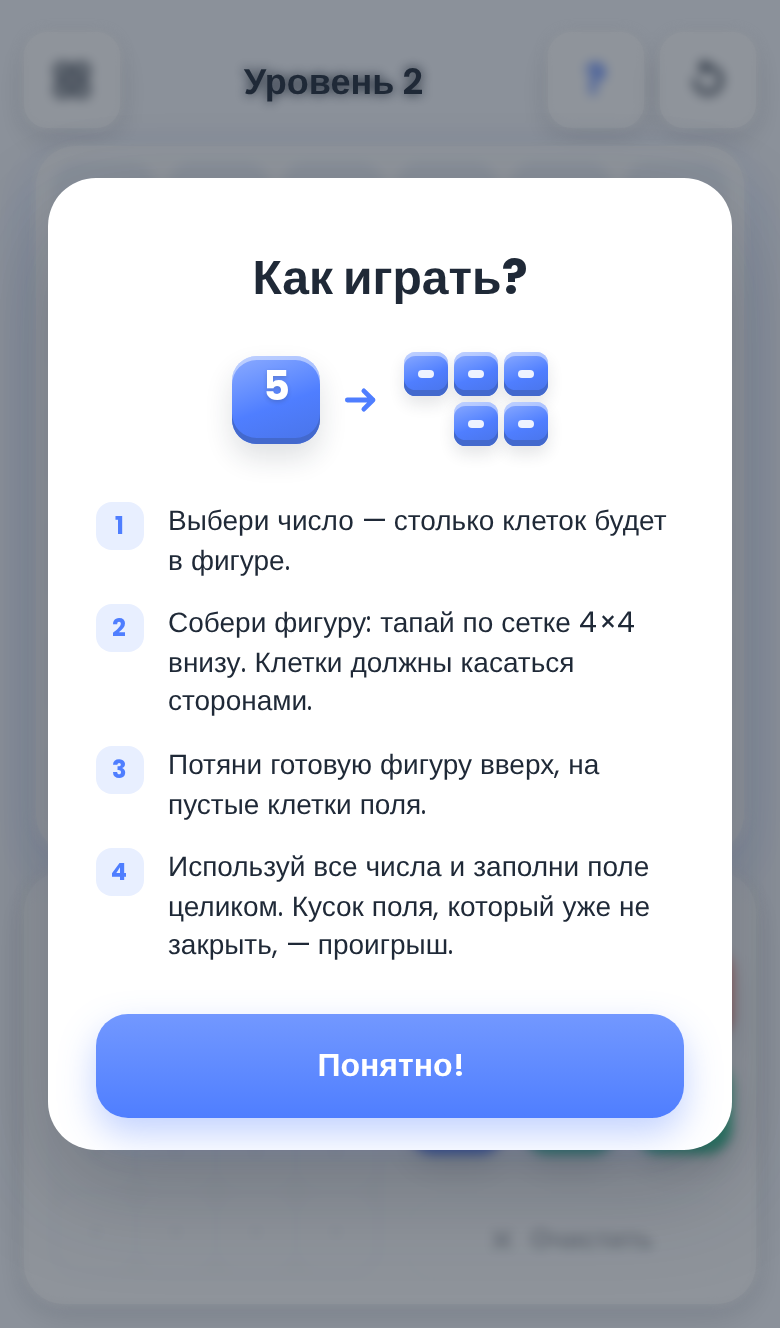
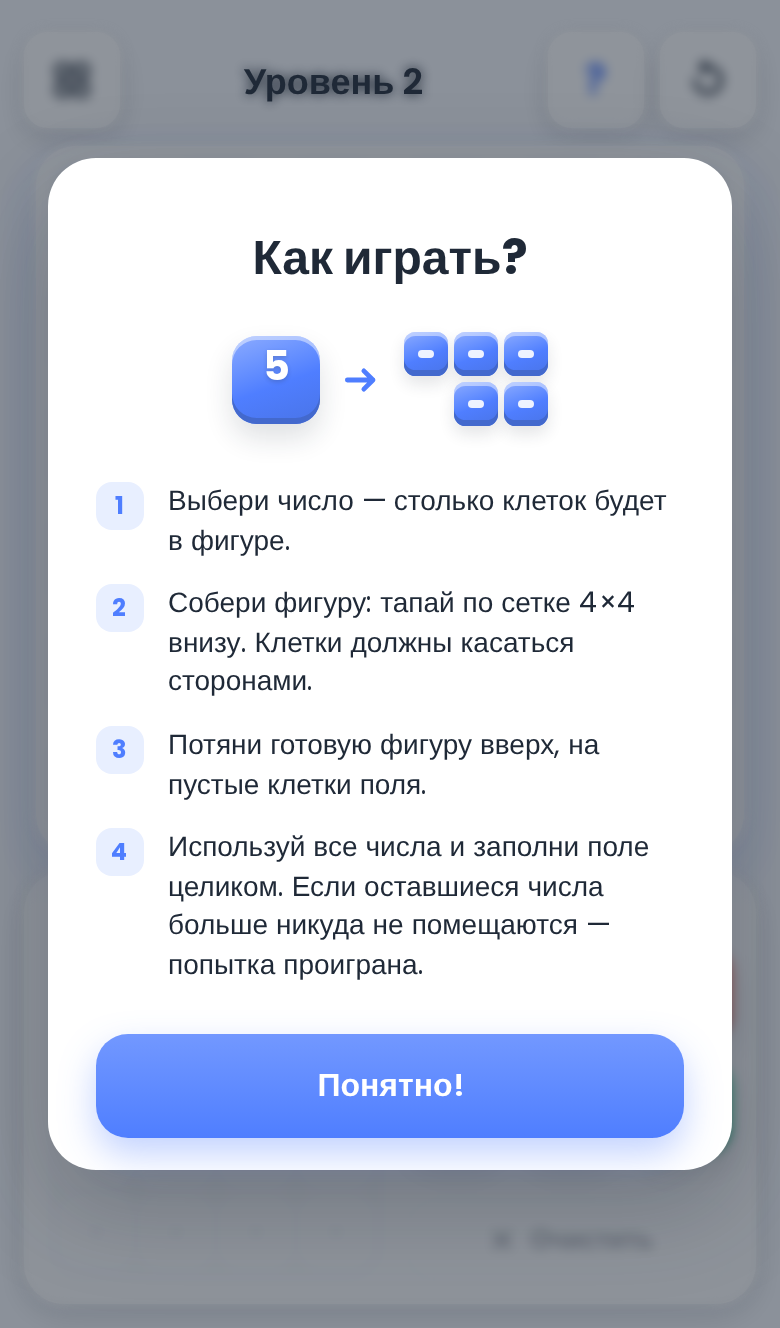
Build & Pack: no lookahead loss, clean home screen
The game no longer declares a loss when the level becomes unsolvable;
it ends only when no remaining number fits anywhere (no_moves). Home
shows just the centered banner with Play under it.

Claude-Session: https://claude.ai/code/session_01Cmo7VGTDwpgdT4Hfckucjs

diff --git a/apps/roll-pack/e2e/play.spec.ts b/apps/roll-pack/e2e/play.spec.ts
@@ -115,15 +115,45 @@ test('фигура на препятствие не встаёт и ход не 
   await expect(page.getByTestId('game')).toHaveAttribute('data-used', '0');
 });
 
-test('поражение: кусок, который не закрыть, и переигровка', async ({ page }) => {
+test('ошибку игра не подсказывает; проигрыш — только когда ходов нет, и переигровка', async ({ page }) => {
   await page.goto('/?unlock=all#/level/2');
-  // Т-фигура из 4 клеток отрезает угловую клетку (0,0): одну клетку не закрыть ничем.
-  await placePiece(page, [[0, 1], [1, 0], [1, 1], [1, 2]], 5);
-  await expect(page.getByTestId('popup-lose')).toBeVisible();
-  await expect(page.locator('.cell.dead').first()).toBeVisible();
+  const game = page.getByTestId('game');
+  // Т-фигура из 4 клеток отрезает угловую клетку (0,0): уровень уже не собрать, но игра молчит.
+  const tee: Point[] = [[0, 1], [1, 0], [1, 1], [1, 2]];
+  await placePiece(page, tee, 5);
+  await expect(game).toHaveAttribute('data-status', 'playing');
+  await expect(page.getByTestId('popup-lose')).toHaveCount(0);
+
+  // Раскладываем 7, 7, 6, 5 так, чтобы остались только куски меньше 4 клеток — четвёрке некуда.
+  const level = LEVELS[1];
+  if (level === undefined) throw new Error('no level 2');
+  const board = parseMap(level.map).map((row) => [...row]);
+  for (const [r, c] of [...tee, [0, 0] as const]) (board[r] as (typeof board)[number])[c] = 'wall';
+  const free: Point[] = [];
+  board.forEach((row, r) => row.forEach((cell, c) => { if (cell === null) free.push([r, c]); }));
+  let pieces: Point[][] | null = null;
+  outer: for (let i = 0; i < free.length; i += 1) {
+    for (let j = i + 1; j < free.length; j += 1) {
+      for (let k = j + 1; k < free.length; k += 1) {
+        const trial = board.map((row) => [...row]);
+        for (const [r, c] of [free[i], free[j], free[k]] as Point[]) (trial[r] as (typeof trial)[number])[c] = 'wall';
+        pieces = solve(trial, [7, 7, 6, 5]);
+        if (pieces !== null) break outer;
+      }
+    }
+  }
+  if (pieces === null) throw new Error('no packing');
+  const used = [false, false, false, false];
+  for (const piece of pieces) {
+    const i = [7, 7, 6, 5].findIndex((n, j) => n === piece.length && !used[j]);
+    used[i] = true;
+    await placePiece(page, piece, i);
+  }
+  await expect(game).toHaveAttribute('data-status', 'failed');
+  await expect(page.getByTestId('popup-lose')).toContainText('Ходов нет');
   await page.locator('[data-action="replay"]').click();
   await expect(page.getByTestId('popup-lose')).toHaveCount(0);
-  await expect(page.getByTestId('game')).toHaveAttribute('data-used', '0');
+  await expect(game).toHaveAttribute('data-used', '0');
 });
 
 test('экран помещается без прокрутки (§7.1)', async ({ browser }) => {

diff --git a/apps/roll-pack/src/ui/game.ts b/apps/roll-pack/src/ui/game.ts
@@ -1,4 +1,4 @@
-import { createState, deadRegion, fitsBuilder, isPieceReady, normalize, place, shift } from '../engine/packEngine.ts';
+import { createState, fitsBuilder, isPieceReady, normalize, place, shift } from '../engine/packEngine.ts';
 import { BUILDER, type GameState, type Point } from '../engine/types.ts';
 import { getLevel, LEVEL_COUNT } from '../levels/levels.ts';
 import { vibrate, wait } from './feedback.ts';
@@ -24,7 +24,7 @@ const HOW_TO_PLAY = `
     <li><b>1</b><span>Выбери число — столько клеток будет в фигуре.</span></li>
     <li><b>2</b><span>Собери фигуру: тапай по сетке 4×4 внизу. Клетки должны касаться сторонами.</span></li>
     <li><b>3</b><span>Потяни готовую фигуру вверх, на пустые клетки поля.</span></li>
-    <li><b>4</b><span>Используй все числа и заполни поле целиком. Кусок поля, который уже не закрыть, — проигрыш.</span></li>
+    <li><b>4</b><span>Используй все числа и заполни поле целиком. Если оставшиеся числа больше никуда не помещаются — попытка проиграна.</span></li>
   </ol>`;
 
 const key = (r: number, c: number): string => `${String(r)},${String(c)}`;
@@ -320,8 +320,9 @@ export function gameScreen(levelNumber: number, go: Go): Screen {
     }
     if (state.status === 'failed') {
       const left = state.numbers.filter((_, i) => state.used[i] !== true);
-      for (const [r, c] of deadRegion(state.board, left)) cellAt(r, c)?.classList.add('dead');
-      log({ type: 'level_fail', level: levelNumber, reason: 'unsolvable', left });
+      // Пустые клетки, куда уже ничего не встаёт, — коротко подсвечиваем.
+      boardEl.querySelectorAll<HTMLElement>('.cell:not(.wall):not(.void):not(.filled)').forEach((d) => d.classList.add('dead'));
+      log({ type: 'level_fail', level: levelNumber, reason: 'no_moves', left });
       vibrate([30, 60, 30]);
       await wait(900);
       busy = false;
@@ -376,7 +377,7 @@ export function gameScreen(levelNumber: number, go: Go): Screen {
 
   function showLose(): void {
     popup(
-      `<div class="badge-big badge-lose">${icon.cross}</div><h2>Не собрать</h2><p class="sub">Красный кусок поля уже не закрыть оставшимися числами</p>`,
+      `<div class="badge-big badge-lose">${icon.cross}</div><h2>Ходов нет</h2><p class="sub">Оставшиеся числа больше никуда не помещаются</p>`,
       [
         { id: 'replay', html: `${icon.replay}Переиграть`, className: 'btn-primary', run: replay },
         { id: 'levels', html: 'К уровням', className: 'btn-ghost', run: toLevels },

diff --git a/apps/roll-pack/src/engine/packEngine.ts b/apps/roll-pack/src/engine/packEngine.ts
@@ -76,7 +76,8 @@ export function place(state: GameState, index: number, cells: readonly Point[]):
   for (const [r, c] of cells) (board[r] as Cell[])[c] = size;
   const used = state.used.map((u, i) => u || i === index);
   const left = state.numbers.filter((_, i) => !used[i]);
-  const status = left.length === 0 ? 'won' : solve(board, left) === null ? 'failed' : 'playing';
+  // Решаемость наперёд не проверяется (решение автора): проигрыш — только когда ходов нет.
+  const status = left.length === 0 ? 'won' : hasMove(board, left) ? 'playing' : 'failed';
   return { valid: true, state: { ...state, board, used, status } };
 }
 
@@ -191,6 +192,20 @@ function search(g: Grid, sizes: number[], acc: number[][], onSolution: (pieces: 
   return false;
 }
 
+/**
+ * Есть ли хоть один ход: хотя бы одно из чисел помещается связной фигурой
+ * (в рамке 4×4) на свободные клетки. Это не предсказание — просто «ходов нет».
+ */
+export function hasMove(board: Board, sizes: readonly number[]): boolean {
+  const g = toGrid(board);
+  for (const k of new Set(sizes)) {
+    for (let root = 0; root < g.free.length; root += 1) {
+      if (g.free[root] === 1 && piecesAt(g, root, k).length > 0) return true;
+    }
+  }
+  return false;
+}
+
 export function solve(board: Board, sizes: readonly number[]): Point[][] | null {
   const g = toGrid(board);
   if (!regionsFit(g, sizes)) return null;
@@ -247,32 +262,4 @@ export function snakeSolves(board: Board, sizes: readonly number[]): boolean {
     return ok;
   };
   return go(0, values.map((v) => sizes.filter((s) => s === v).length));
-}
-
-/** Кусок поля, который не закрыть оставшимися числами, — для подсветки при поражении. */
-export function deadRegion(board: Board, sizes: readonly number[]): Point[] {
-  const g = toGrid(board);
-  const seen = new Uint8Array(g.free.length);
-  const regions: number[][] = [];
-  for (let i = 0; i < g.free.length; i += 1) {
-    if (g.free[i] !== 1 || seen[i] === 1) continue;
-    const cells: number[] = [];
-    const stack = [i];
-    seen[i] = 1;
-    while (stack.length > 0) {
-      const x = stack.pop() as number;
-      cells.push(x);
-      for (const y of neighbours(g, x)) {
-        if (g.free[y] === 1 && seen[y] !== 1) {
-          seen[y] = 1;
-          stack.push(y);
-        }
-      }
-    }
-    regions.push(cells);
-  }
-  let sums = 1n;
-  for (const v of sizes) sums |= sums << BigInt(v);
-  const bad = regions.find((cells) => ((sums >> BigInt(cells.length)) & 1n) === 0n) ?? regions.sort((a, b) => a.length - b.length)[0] ?? [];
-  return bad.map((i) => [Math.floor(i / g.w), i % g.w] as const);
 }

diff --git a/apps/roll-pack/tools/make-screens.ts b/apps/roll-pack/tools/make-screens.ts
@@ -100,7 +100,30 @@ await page.screenshot({ path: join(out, 'game-small.png') });
 page = await phone();
 await page.goto(`${base}/#/level/2`);
 await settle(page);
-await put(page, [[0, 1], [1, 0], [1, 1], [1, 2]], 5);
+{
+  // Т-фигура отрезает угол — игра молчит; дальше 7, 7, 6, 5 оставляют куски меньше 4 клеток.
+  const tee: Point[] = [[0, 1], [1, 0], [1, 1], [1, 2]];
+  await put(page, tee, 5);
+  const board = parseMap((LEVELS[1] as (typeof LEVELS)[number]).map).map((row) => [...row]);
+  for (const [r, c] of [...tee, [0, 0] as const]) (board[r] as (typeof board)[number])[c] = 'wall';
+  const free: Point[] = [];
+  board.forEach((row, r) => row.forEach((cell, c) => { if (cell === null) free.push([r, c]); }));
+  let pieces: Point[][] | null = null;
+  outer: for (let i = 0; i < free.length; i += 1)
+    for (let j = i + 1; j < free.length; j += 1)
+      for (let k = j + 1; k < free.length; k += 1) {
+        const trial = board.map((row) => [...row]);
+        for (const [r, c] of [free[i], free[j], free[k]] as Point[]) (trial[r] as (typeof trial)[number])[c] = 'wall';
+        pieces = solve(trial, [7, 7, 6, 5]);
+        if (pieces !== null) break outer;
+      }
+  const used = [false, false, false, false];
+  for (const piece of pieces ?? []) {
+    const i = [7, 7, 6, 5].findIndex((n, j) => n === piece.length && !used[j]);
+    used[i] = true;
+    await put(page, piece, i);
+  }
+}
 await page.waitForTimeout(1500);
 await page.screenshot({ path: join(out, '4-lose.png') });
 

diff --git a/apps/roll-pack/src/styles.css b/apps/roll-pack/src/styles.css
@@ -106,10 +106,11 @@ svg { display: block; }
 .home { align-items: center; text-align: center; overflow: hidden; background: var(--ui-background); }
 .home > * { position: relative; z-index: 1; }
 .home .home-bg { position: absolute; inset: -48px; z-index: 0; background: var(--banner) center / cover no-repeat; filter: blur(28px) saturate(1.15); opacity: .5; transform: scale(1.15); }
-.home-banner { width: 100%; max-width: 440px; height: auto; margin-top: 8vh; border-radius: var(--ui-radius-card); box-shadow: var(--ui-shadow-card); animation: banner-in 420ms cubic-bezier(.2,.8,.2,1) both; }
+.home { justify-content: center; }
+.home-center { width: 100%; display: flex; flex-direction: column; align-items: center; gap: var(--ui-space-6); }
+.home-banner { width: 100%; max-width: 440px; height: auto; border-radius: var(--ui-radius-card); box-shadow: var(--ui-shadow-card); animation: banner-in 420ms cubic-bezier(.2,.8,.2,1) both; }
 @keyframes banner-in { from { opacity: 0; transform: translateY(12px) scale(.98); } }
-.home-tag { margin-top: var(--ui-space-4); font-size: 15px; font-weight: 500; color: var(--ui-text-muted); }
-.home .btn-large { max-width: 360px; margin-bottom: var(--ui-space-5); animation: breathe 2.4s ease-in-out infinite; }
+.home .btn-large { max-width: 360px; animation: breathe 2.4s ease-in-out infinite; }
 @keyframes breathe { 50% { transform: scale(1.03); } }
 .sr-only { position: absolute; width: 1px; height: 1px; overflow: hidden; clip: rect(0 0 0 0); white-space: nowrap; }
 

diff --git a/apps/roll-pack/tests/engine.test.ts b/apps/roll-pack/tests/engine.test.ts
@@ -52,11 +52,19 @@ describe('укладка (§4–5)', () => {
     expect(b.state.status).toBe('won');
   });
 
-  it('поражение unsolvable: оставшееся уже не разложить', () => {
-    // Четвёрка по диагонали рвёт поле на куски, которые семёркой не закрыть.
+  it('поражение no_moves: оставшееся число никуда не помещается', () => {
+    // Четвёрка по диагонали рвёт поле на куски из 3 и 4 клеток — семёрке некуда встать.
     const out = place(start(), 1, [[0, 1], [1, 1], [1, 2], [2, 2]]);
     expect(out.valid).toBe(true);
     expect(out.state.status).toBe('failed');
+  });
+
+  it('уровень уже не решить, но ходы есть — игра продолжается (решаемость наперёд не проверяется)', () => {
+    const s = createState({ id: 8, map: ['......', '......'], numbers: [4, 4, 4] });
+    // Квадрат 2×2 отрезает слева кусок из 2 клеток: собрать поле уже нельзя, но четвёрка справа помещается.
+    const out = place(s, 0, [[0, 1], [0, 2], [1, 1], [1, 2]]);
+    expect(out.state.status).toBe('playing');
+    expect(solve(out.state.board, [4, 4])).toBeNull();
   });
 });
 

diff --git a/apps/roll-pack/src/ui/screens.ts b/apps/roll-pack/src/ui/screens.ts
@@ -14,11 +14,11 @@ export function homeScreen(go: Go): HTMLElement {
   el.style.setProperty('--banner', `url("${banner}")`);
   el.innerHTML = `
     <div class="home-bg" aria-hidden="true"></div>
-    <img class="home-banner" src="${banner}" alt="" width="1672" height="941">
-    <h1 class="sr-only">Build &amp; Pack</h1>
-    <p class="home-tag">Собери фигуру — уложи на поле</p>
-    <div style="flex:1"></div>
-    <button class="btn btn-primary btn-large" data-testid="play">${icon.play}Играть</button>`;
+    <div class="home-center">
+      <img class="home-banner" src="${banner}" alt="" width="1672" height="941">
+      <h1 class="sr-only">Build &amp; Pack</h1>
+      <button class="btn btn-primary btn-large" data-testid="play">${icon.play}Играть</button>
+    </div>`;
   el.querySelector('[data-testid="play"]')?.addEventListener('click', () => go('#/levels'));
   return el;
 }

diff --git a/apps/roll-pack/src/ui/log.ts b/apps/roll-pack/src/ui/log.ts
@@ -20,7 +20,7 @@ export type LogEvent =
     }
   | { type: 'help_open'; level: number }
   | { type: 'level_win'; level: number }
-  | { type: 'level_fail'; level: number; reason: 'unsolvable'; left: number[] };
+  | { type: 'level_fail'; level: number; reason: 'no_moves'; left: number[] };
 
 export function log(event: LogEvent): void {
   try {

diff --git a/specs/38-roll-pack.md b/specs/38-roll-pack.md
@@ -34,8 +34,8 @@ spec_reviewed:
 экранов и три попапа (§7.1).
 
 **Не делаем.** Кубики и любую случайность, поворот фигуры, отмену уложенной
-фигуры, подсказку решения, звёзды, очки,
-таймер, звук, настройки и бесконечный режим.
+фигуры, подсказку решения, предупреждение «уровень уже не собрать»,
+звёзды, очки, таймер, звук, настройки и бесконечный режим.
 
 **Уровней пять.** Открываются по очереди.
 
@@ -162,21 +162,31 @@ type Action =
 
 ```text
 Дано: остались неиспользованные числа.
-Когда: после укладки солвер не находит ни одного способа разложить
-       оставшиеся пустые клетки на связные фигуры оставшихся размеров,
-       каждая из которых помещается в 4×4.
-Тогда: попытка заканчивается поражением с причиной unsolvable; кусок поля,
-       который не закрыть, подсвечивается красным, попап проигрыша.
+Когда: после укладки ни одно из них нельзя поставить никуда — ни в одном
+       свободном куске поля нет места под связную фигуру этого размера
+       (в рамке 4×4).
+Тогда: попытка заканчивается поражением с причиной no_moves; пустые клетки
+       подсвечиваются красным, через 900 мс попап «Ходов нет».
 ```
 
+```text
+Дано: после укладки поле уже нельзя собрать целиком, но хотя бы одно число
+      ещё куда-то помещается.
+Когда: завершена укладка.
+Тогда: игра продолжается молча. Никаких предупреждений и подсветок.
+```
+
+**Игра не предсказывает проигрыш (решение автора 2026-09-25).** Первая
+сборка объявляла поражение сразу после хода, который делал уровень
+нерешаемым (солвер видел это наперёд). Автор: «игра сама считает и
+показывает, что я не соберу, а я думаю, что соберу, — это злит; хочу сам
+увидеть, что не могу собрать». Теперь игрок доигрывает, пока есть хоть один
+ход, и сам упирается в тупик. «Заново» доступно всегда.
+
 Порядок проверок после укладки: занять клетки → число `used` → проверить
-победу → проверить, решаемо ли оставшееся (солвер) → вернуть ввод.
+победу → проверить, есть ли хоть один ход → вернуть ввод.
 
-Солвер работает в игре: поле до 36 клеток и не больше 9 чисел, перебор
-укладывается в миллисекунды. Проигрыш объявляется сразу после хода, который
-сделал уровень нерешаемым, а не тогда, когда игрок упрётся сам.
-
-Код причины поражения один и стабильный: `unsolvable`.
+Код причины поражения один и стабильный: `no_moves`.
 
 **Случайности нет.** Поле, препятствия и числа полностью заданы уровнем и
 видны с начала. Проигрыш — всегда следствие решения игрока.
@@ -257,9 +267,9 @@ type Action =
   фигура возвращается, подсказка «Сюда не встаёт».
 - **Цена хода:** уложенную фигуру не вернуть, число гаснет.
 - **Победа:** последняя фигура ложится, попап победы.
-- **Поражение:** кусок поля, который не закрыть, подсвечивается красным,
-  через `900 мс` попап «Не собрать» — «Красный кусок поля уже не закрыть
-  оставшимися числами».
+- **Поражение:** только когда ходов нет — пустые клетки подсвечиваются
+  красным, через `900 мс` попап «Ходов нет» — «Оставшиеся числа больше никуда
+  не помещаются». Раньше игра ничего не подсказывает.
 - **Payoff:** фигура точно встаёт в сложное место — клетки коротко
   подпрыгивают при укладке; при победе все клетки поля подпрыгивают волной.
 - **Без текста игрок должен понять:** число = сколько клеток в фигуре;
@@ -271,8 +281,8 @@ type Action =
 1. Выбери число сверху — столько клеток будет в фигуре.
 2. Собери фигуру: тапай по сетке 4×4. Клетки должны касаться сторонами.
 3. Перетащи фигуру на поле, на пустые клетки.
-4. Используй все числа и заполни поле целиком. Кусок поля, который уже не
-   закрыть оставшимися числами, — проигрыш.
+4. Используй все числа и заполни поле целиком. Если оставшиеся числа больше
+   никуда не помещаются — попытка проиграна.
 
 ## 7.1. Экраны
 
@@ -303,8 +313,8 @@ type Action =
 
 Главный: баннер Build & Pack (`UI Design/prototypes/roll-pack/assets/home-banner.png`,
 в игре — `home-banner.webp`, 69 КБ) дважды — размытым фоном во весь экран и
-чёткой карточкой сверху; под ним строка «Собери фигуру — уложи на поле»; внизу
-кнопка «Играть». Название на баннере, поэтому текстового заголовка нет (для
+чёткой карточкой по центру экрана; сразу под ним кнопка «Играть». Другого
+текста нет (решение автора 2026-09-25). Название на баннере, поэтому текстового заголовка нет (для
 скринридера он есть). Уровни: пять карточек с числом клеток и фигур. Попапы — как у
 `apps/taxi-slide`. Стиль PuzzleKit, новых цветов, радиусов и теней нет.
 
@@ -356,4 +366,5 @@ kill-критерию.
 шрифт — из `UI Design/`. Как запускать — `apps/roll-pack/README.md`.
 
 Солвер разбиения поля на связные фигуры заданных размеров (с ограничением
-4×4) — общий для подбора уровней, тестов и проверки `unsolvable` в игре.
+4×4) — общий для подбора уровней и тестов. В игре — только проверка «есть ли
+хоть один ход» (`no_moves`), решаемость наперёд не считается.

diff --git a/UI Design/prototypes/roll-pack/README.md b/UI Design/prototypes/roll-pack/README.md
@@ -3,13 +3,13 @@
 Спека — `specs/38-roll-pack.md`. Снимки собранного прототипа `apps/roll-pack`
 (пересобрать: `npm run build && npx tsx tools/make-screens.ts`):
 
-- `1-home.png` — главный: баннер фоном и карточкой.
+- `1-home.png` — главный: баннер фоном и карточкой по центру, под ним «Играть».
 - `assets/home-banner.png` — баннер от автора (исходник), `assets/home-banner.webp` — сжатая копия для игры.
 - `2-levels.png` — уровни.
 - `game-screen.png` — игровой экран, уровень 2, 390×664: две фигуры уложены,
   третья собирается, счётчик `4/6`.
 - `game-small.png` — уровень 5 на 360×560: всё помещается без прокрутки.
-- `3-help.png`, `4-lose.png`, `5-win.png` — «Как играть», проигрыш, победа.
+- `3-help.png`, `4-lose.png`, `5-win.png` — «Как играть», проигрыш («Ходов нет»), победа.
 
 История: `mockup-v2.*` (конструктор над полем — на телефоне поле обрезалось),
 `mockup-v3.*` (раскладка, принятая в прототип).
